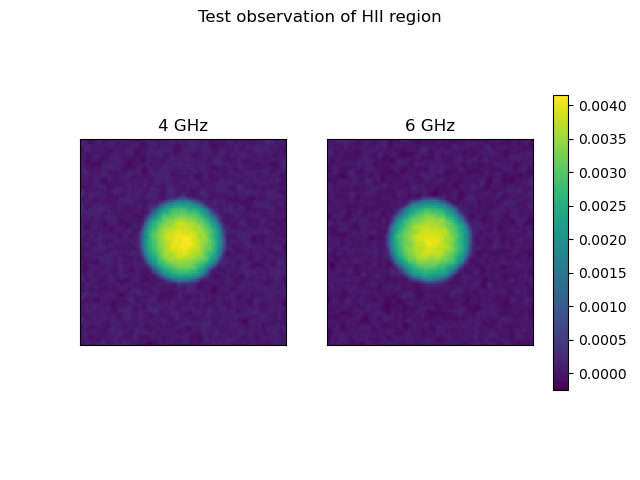
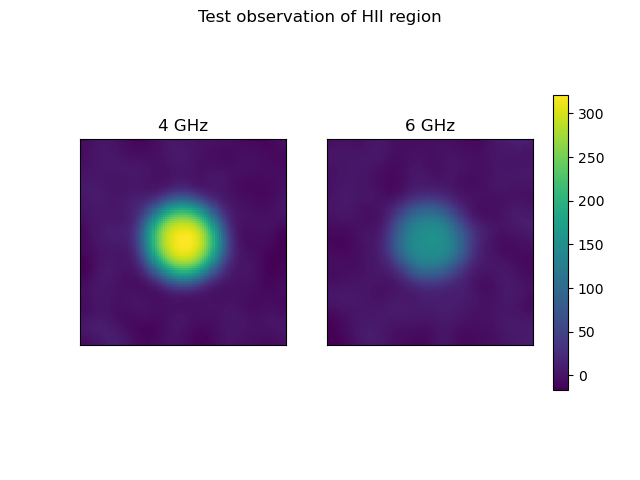
RRL test spectra created

diff --git a/programs/HIIsim.py b/programs/HIIsim.py
@@ -59,11 +59,7 @@ def ff_opacity(temp,nu,em):
     This function returns the free-free opacity of a region with
     a given temperature and emission measure for a frequency.
     '''
-    # Moves frequency to the third axis so the cube is created
-    nutrick = np.reshape(nu,(1,1,len(nu)))
-    emtrick = np.reshape(em,(em.shape[0],em.shape[1],1))
-
-    return 3.28e-7 * (temp/(1e4*u.K))**-1.35 * (nutrick/u.GHz)**-2.1 * (emtrick/(u.pc*u.cm**-6))
+    return 3.28e-7 * (temp/(1e4*u.K))**-1.35 * (nu/u.GHz)**-2.1 * (em[...,None]/(u.pc*u.cm**-6))
 
 def sphere_depth_gen(radius,length,steps):
     '''
@@ -137,10 +133,10 @@ def rrl_frequencies(lower_freq,upper_freq):
     of all RRLs between them.
     '''
     # Using equation 7.14 to estimate range of transitions
-    lower_n = np.floor(((2 * c.Ryd * c.c * (1+c.m_e/c.m_p)**-1 / upper_freq)**(1/3)))
-    upper_n = np.floor(((2 * c.Ryd * c.c * (1+c.m_e/c.m_p)**-1 / lower_freq)**(1/3))) + 1
+    lower_n = np.floor(((2 * c.Ryd * c.c * (1+c.m_e/c.m_p)**-1 / upper_freq)**(1/3)).to(u.m/u.m))
+    upper_n = np.floor(((2 * c.Ryd * c.c * (1+c.m_e/c.m_p)**-1 / lower_freq)**(1/3)).to(u.m/u.m)) + 1
     # Using equation 7.12 to get frequency list
-    n = np.arange(lower_n.to(u.m/u.m),upper_n.to(u.m/u.m))
+    n = np.arange(lower_n,upper_n)
     rrl_freq = c.Ryd * c.c * (1+c.m_e/c.m_p)**-1 * (1/n**2 - 1/(n+1)**2)
     return rrl_freq
 
@@ -223,21 +219,16 @@ def main():
     pixwid = 1 * u.arcsec
     imwid = 100
     beamsize = 5 * u.arcsec
-    testtelescope = Telescope(pixwid,imwid,beamsize,9000)
+    testtelescope = Telescope(pixwid,imwid,beamsize,10)
 
     # Generating a test observation
     nu_0 = 6 * u.GHz
     nu_1 = np.linspace(4.05,4.06,2000) * u.GHz
-    observation = testtelescope.observe(testregion,nu_1).to(u.K)
-
-    #nu = np.linspace(0.9999*nu_0,1.0001*nu_0)
-    #phi = line_broadening(temp,nu_0,nu)
-    #velocities = freq_to_velocity(nu_0,nu)
-
-    # Working on the free-free opacity
-    #depth = sphere_depth_gen(1 * u.AU, 2.4 * u.AU, 49)
-    #em = emission_measure(n_e,depth)
-    #tau = ff_opacity(temp,nu_1,em)
+    rrl_test = rrl_frequencies(nu_1[0],nu_1[-1])[0]
+    test_fwhm = thermal_fwhm(temp,rrl_test)
+    nu_2 = np.linspace((rrl_test-3*test_fwhm).to(u.GHz),(rrl_test+3*test_fwhm).to(u.GHz),200)
+    observation = testtelescope.observe(testregion,nu_2).to(u.K)
+    v_nu_2 = freq_to_velocity(rrl_test,nu_2)
 
     '''
     # Plotting the thermal broadening
@@ -269,7 +260,11 @@ def main():
     '''
 
     # Generate a basic spectra
-    plt.plot(nu_1,np.average(observation,axis=(0,1)))
+
+    plt.plot(v_nu_2.to(u.km/u.s),np.average(observation,axis=(0,1)))
+    plt.title("RRL at approximately 4 GHz")
+    plt.xlabel("Doppler shift (km/s)")
+    plt.ylabel("Brightness temperature (K)")
     plt.show()
 
 if __name__ == "__main__":
